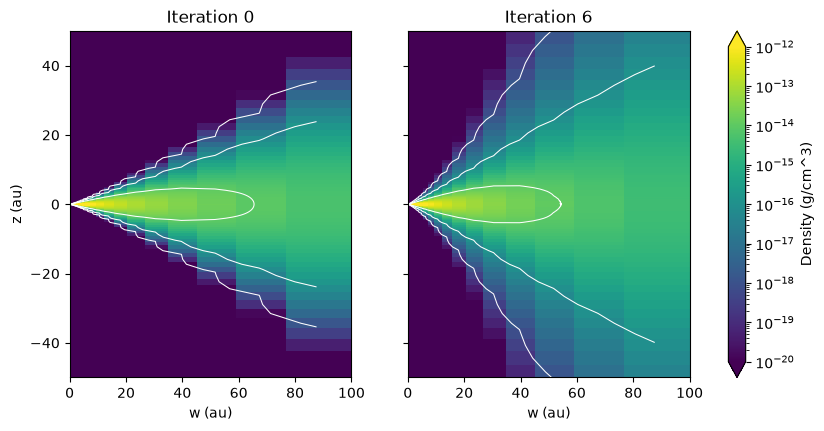
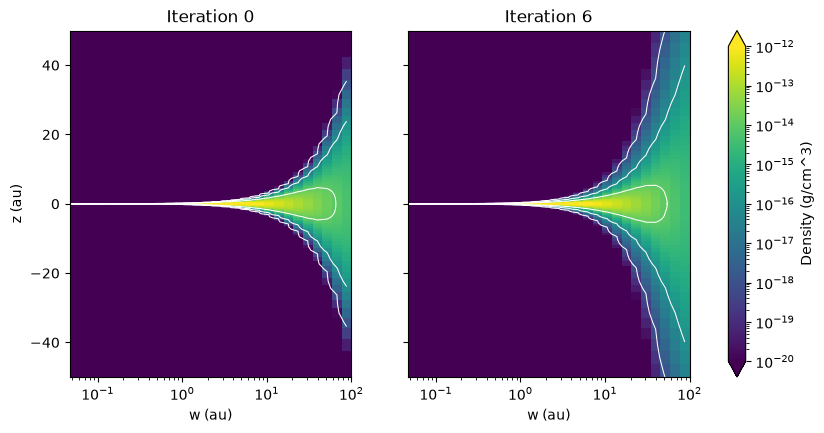
Show the cylindrical radius on a logarithmic axis in the density maps of the hydrostatic equilibrium tutorial, so that the logarithmically spaced radial cells all have the same width.

diff --git a/docs/tutorials/scripts/hseq_maps.py b/docs/tutorials/scripts/hseq_maps.py
@@ -33,7 +33,10 @@ for ax, iteration in zip(axes, (0, len(filenames) - 1)):
     ax.contour(g.w / au, g.z / au, density, levels=[1.e-18, 1.e-16, 1.e-14],
                colors='white', linewidths=0.75)
 
-    ax.set_xlim(0., 100.)
+    # The radial cells are spaced logarithmically, so show w on a log scale,
+    # on which all the cells have the same width (the first wall is at w=0)
+    ax.set_xscale('log')
+    ax.set_xlim(g.w_wall[1] / au, 100.)
     ax.set_ylim(-50., 50.)
     ax.set_xlabel('w (au)')
     ax.set_title('Iteration {0}'.format(iteration))
